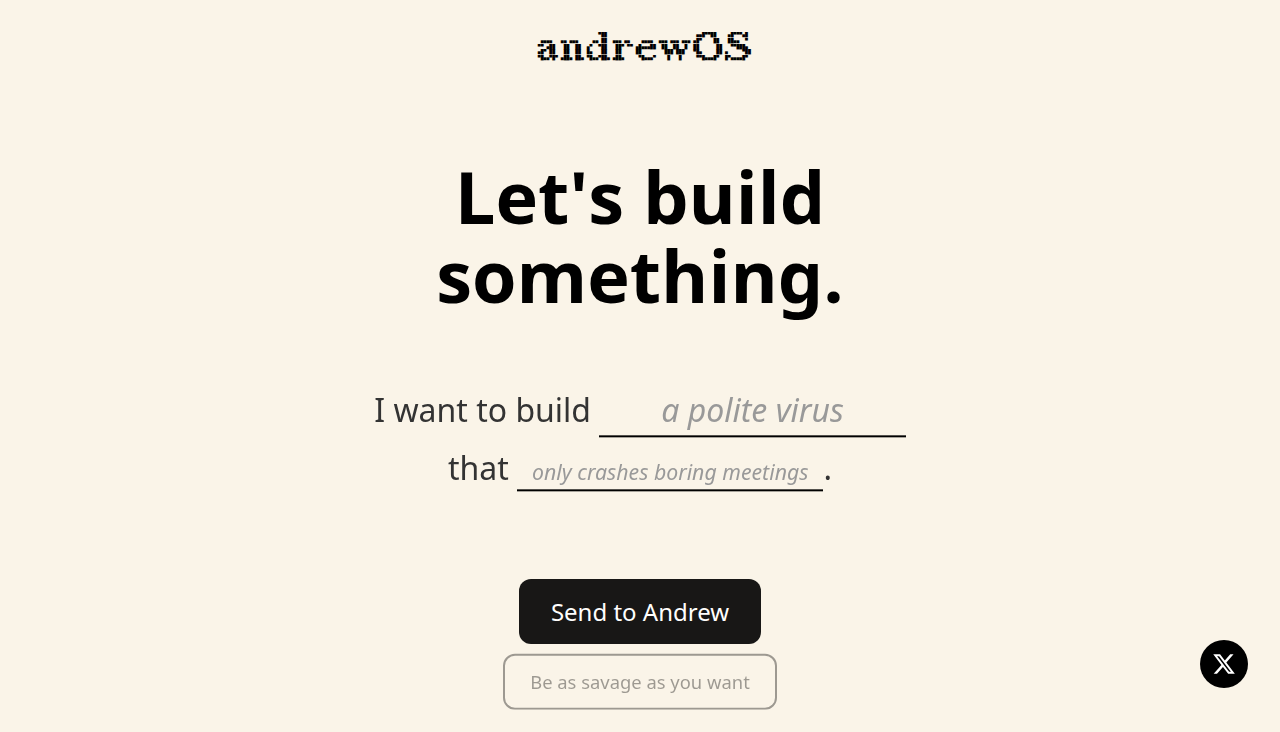
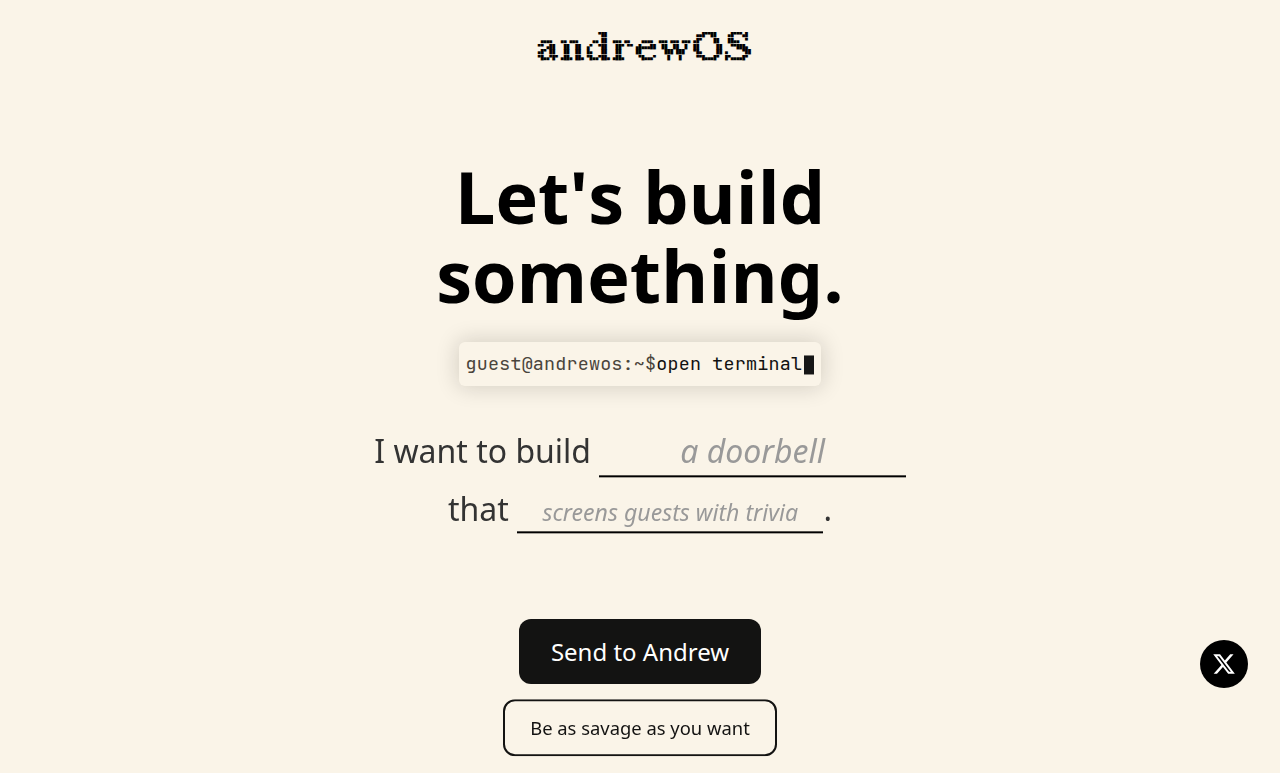
Add a visible shell prompt into the terminal (#2)
* Add a homepage shell prompt that opens the terminal.

The line fades in after the hero typewriter and uses the same document swap as the ASCII logo, which stays as an unlabeled easter egg.

* Update homepage screenshots for the shell prompt.

---------

diff --git a/index.html b/index.html
@@ -5,6 +5,7 @@
     <meta name="viewport" content="width=device-width, initial-scale=1.0, maximum-scale=1.0, user-scalable=no">
     <link rel="icon" type="image/png" href="/favicon.png" />
     <script src="/js/voxbot-feedback.js"></script>
+    <script src="/js/open-terminal.js"></script>
     <script>
       // VoxBot egg: /?feedback=1 (optional source=/from=) opens the separate feedback page.
       if (typeof isFeedbackDeepLink === 'function' && isFeedbackDeepLink(window.location)) {
@@ -57,6 +58,78 @@
       .header span.show {
         opacity: 1;
         transform: translateY(0);
+      }
+      .shell-entry {
+        display: inline-flex;
+        align-items: center;
+        justify-content: center;
+        margin: 0.15rem 0 2.4rem;
+        padding: 0.7rem 0.4rem;
+        min-height: 44px;
+        box-sizing: border-box;
+        font-family: ui-monospace, "SFMono-Regular", Menlo, Consolas, monospace;
+        font-size: clamp(0.95rem, 3.5vw, 1.15rem);
+        line-height: 1;
+        letter-spacing: 0.01em;
+        color: #1a1a1a;
+        text-decoration: none;
+        white-space: nowrap;
+        border-radius: 6px;
+        opacity: 0;
+        transform: translateY(-8px);
+        pointer-events: none;
+        transition: opacity 0.55s ease, transform 0.7s ease, background-color 0.2s ease;
+      }
+      .shell-entry.fade-in {
+        pointer-events: auto;
+        animation: shell-glow 1.7s ease 0.2s 1;
+      }
+      .shell-prompt {
+        color: #4a453c;
+      }
+      .shell-cmd {
+        color: #111;
+      }
+      .shell-cursor {
+        display: inline-block;
+        width: 0.55em;
+        height: 1.05em;
+        margin-left: 0.12em;
+        background: #161616;
+        transform: translateY(0.08em);
+        animation: shell-blink 1.06s steps(1, end) infinite;
+      }
+      .shell-entry:hover {
+        background: rgba(0, 0, 0, 0.04);
+      }
+      .shell-entry:hover .shell-cmd,
+      .shell-entry:focus-visible .shell-cmd {
+        box-shadow: inset 0 -1px 0 #111;
+      }
+      .shell-entry:focus {
+        outline: none;
+      }
+      .shell-entry:focus-visible {
+        outline: 1px solid #111;
+        outline-offset: 4px;
+      }
+      @keyframes shell-blink {
+        0%, 45% { opacity: 1; }
+        50%, 100% { opacity: 0; }
+      }
+      @keyframes shell-glow {
+        0% { box-shadow: 0 0 0 0 rgba(20, 16, 8, 0); }
+        40% { box-shadow: 0 0 22px 2px rgba(20, 16, 8, 0.16); }
+        100% { box-shadow: 0 0 0 0 rgba(20, 16, 8, 0); }
+      }
+      @media (prefers-reduced-motion: reduce) {
+        .shell-cursor {
+          animation: none;
+          opacity: 1;
+        }
+        .shell-entry.fade-in {
+          animation: none;
+        }
       }
       .subtitle {
         font-size: 2rem;
@@ -211,8 +284,13 @@
 
         .header {
           font-size: 3rem;
-          margin-bottom: 3rem;
+          margin-bottom: 1.25rem;
           line-height: 1.1;
+        }
+
+        .shell-entry {
+          margin-bottom: 1.75rem;
+          max-width: calc(100vw - 2rem);
         }
         
         .madlib {
@@ -343,39 +421,13 @@
     </style>
   </head>
   <body>
-    <pre class="ascii-art" onclick="(async () => {
-      window.history.pushState({}, '', '/terminal');
-      const response = await fetch('/terminal.html');
-      const html = await response.text();
-      document.documentElement.innerHTML = html;
-      // Load jQuery first
-      await new Promise((resolve) => {
-        const script = document.createElement('script');
-        script.src = 'https://code.jquery.com/jquery-3.3.1.min.js';
-        script.onload = resolve;
-        document.head.appendChild(script);
-      });
-      // Then load jQuery Terminal
-      await new Promise((resolve) => {
-        const script = document.createElement('script');
-        script.src = 'https://unpkg.com/jquery.terminal/js/jquery.terminal.min.js';
-        script.onload = resolve;
-        document.head.appendChild(script);
-      });
-      // Now execute page scripts
-      const scripts = document.getElementsByTagName('script');
-      for (let script of scripts) {
-        if (!script.src) { // Only eval inline scripts
-          eval(script.innerHTML);
-        }
-      }
-    })()">                       ▀██                               ▄▄█▀▀██    ▄█▀▀▀▄█
+    <pre class="ascii-art" onclick="openAndrewTerminal(event)">                       ▀██                               ▄▄█▀▀██    ▄█▀▀▀▄█
    ▄▄▄▄   ▄▄ ▄▄▄     ▄▄ ██  ▄▄▄ ▄▄    ▄▄▄▄  ▄▄▄ ▄▄▄ ▄▄▄ ▄█▀    ██   ██▄▄  ▀
   ▀▀ ▄██   ██  ██  ▄▀  ▀██   ██▀ ▀▀ ▄█▄▄▄██  ██  ██  █  ██      ██   ▀▀███▄
    ▄█▀ ██   ██  ██  █▄   ██   ██     ██        ███ ███   ▀█▄     ██ ▄     ▀██
   ▀█▄▄▀█▀ ▄██▄ ██▄ ▀█▄▄▀██▄ ▄██▄     ▀█▄▄▄▀    █   █     ▀▀█▄▄▄█▀  █▀▄▄▄▄█▀</pre>
     <h1 class="header">Let's build<br>Something.</h1>
-    <br><br>
+    <a class="shell-entry" href="/terminal.html" onclick="openAndrewTerminal(event)"><span class="shell-prompt">guest@andrewos:~$</span> <span class="shell-cmd">open terminal</span><span class="shell-cursor" aria-hidden="true"></span></a>
     <div class="madlib">
       I want to build <input type="text" id="what"><br> that
       <input type="text" id="does">.
@@ -398,6 +450,8 @@
         // Initial animation sequence
         const header = document.querySelector('.header');
         typeHeaderText(header, "Let's build<br>something.", () => {
+          const shell = document.querySelector('.shell-entry');
+          if (shell) shell.classList.add('fade-in');
           setTimeout(() => {
             document.querySelector('.madlib').classList.add('fade-in');
             setTimeout(() => {

diff --git a/tests/ui/home.spec.js b/tests/ui/home.spec.js
@@ -53,6 +53,7 @@ test.describe('landing page', () => {
     await expect(page.locator('.header')).toContainText(/something/i);
     await expect(page.locator('.madlib')).toHaveClass(/fade-in/, { timeout: 10_000 });
     await expect(page.locator('.initial-button')).toHaveClass(/fade-in/);
+    await expect(page.locator('a.shell-entry')).toHaveClass(/fade-in/);
 
     const anchors = page.locator('a[href]');
     const count = await anchors.count();
@@ -190,6 +191,52 @@ test.describe('landing page', () => {
       path: join(SCREENSHOT_DIR, `madlib-last-${testInfo.project.name}.png`),
       fullPage: true,
     });
+  });
+
+  test('shell prompt is the visible door into the terminal', async ({ page }, testInfo) => {
+    test.setTimeout(60_000);
+    await page.goto('/');
+
+    const entry = page.locator('a.shell-entry');
+    await expect(entry).toHaveClass(/fade-in/, { timeout: 15_000 });
+    await expect(entry).toBeVisible();
+    await expect(entry).toContainText('guest@andrewos:~$');
+    await expect(entry).toContainText('open terminal');
+    await expect(entry).toHaveAttribute('href', '/terminal.html');
+    await expect(entry.locator('.shell-cursor')).toBeAttached();
+
+    const ascii = page.locator('.ascii-art');
+    await expect(ascii).toHaveAttribute('onclick', /openAndrewTerminal/);
+
+    await entry.focus();
+    await page.keyboard.press('Enter');
+    await expect(page).toHaveURL(/\/terminal$/);
+    await expect(page.locator('.terminal')).toBeVisible({ timeout: 20_000 });
+    await expect(page.locator('.terminal-output')).toContainText('Build 302', { timeout: 20_000 });
+
+    mkdirSync(SCREENSHOT_DIR, { recursive: true });
+    await page.screenshot({
+      path: join(SCREENSHOT_DIR, `terminal-entry-keyboard-${testInfo.project.name}.png`),
+      fullPage: true,
+    });
+  });
+
+  test('shell prompt click uses the same terminal swap', async ({ page }, testInfo) => {
+    test.setTimeout(60_000);
+    await page.goto('/');
+    const entry = page.locator('a.shell-entry');
+    await expect(entry).toHaveClass(/fade-in/, { timeout: 15_000 });
+
+    mkdirSync(SCREENSHOT_DIR, { recursive: true });
+    await page.screenshot({
+      path: join(SCREENSHOT_DIR, `terminal-entry-home-${testInfo.project.name}.png`),
+      fullPage: true,
+    });
+
+    await entry.click();
+    await expect(page).toHaveURL(/\/terminal$/);
+    await expect(page.locator('.terminal')).toBeVisible({ timeout: 20_000 });
+    await expect(page.locator('.terminal-output')).toContainText('Build 302', { timeout: 20_000 });
   });
 
   test('madlib reloads never show empty placeholders', async ({ page }, testInfo) => {

diff --git a/js/open-terminal.js b/js/open-terminal.js
@@ -1,0 +1,38 @@
+/**
+ * Homepage → terminal swap. Same path the ASCII mark has always used:
+ * history shows /terminal, document is replaced with terminal.html.
+ * Modified clicks return so a real href can open in a new tab.
+ */
+async function openAndrewTerminal(event) {
+  if (event) {
+    const modified = event.metaKey || event.ctrlKey || event.shiftKey || event.altKey;
+    const aux = typeof event.button === 'number' && event.button !== 0;
+    if (modified || aux) return;
+    if (typeof event.preventDefault === 'function') event.preventDefault();
+  }
+
+  window.history.pushState({}, '', '/terminal');
+  const response = await fetch('/terminal.html');
+  const html = await response.text();
+  document.documentElement.innerHTML = html;
+
+  await new Promise((resolve) => {
+    const script = document.createElement('script');
+    script.src = 'https://code.jquery.com/jquery-3.3.1.min.js';
+    script.onload = resolve;
+    document.head.appendChild(script);
+  });
+  await new Promise((resolve) => {
+    const script = document.createElement('script');
+    script.src = 'https://unpkg.com/jquery.terminal/js/jquery.terminal.min.js';
+    script.onload = resolve;
+    document.head.appendChild(script);
+  });
+
+  const scripts = document.getElementsByTagName('script');
+  for (let script of scripts) {
+    if (!script.src) {
+      eval(script.innerHTML);
+    }
+  }
+}

diff --git a/terminal.html b/terminal.html
@@ -143,6 +143,8 @@
               (0, eval)(typeSrc);
               const madlibSrc = await fetch('/js/madlib-placeholders.js').then((r) => r.text());
               (0, eval)(madlibSrc);
+              const openSrc = await fetch('/js/open-terminal.js').then((r) => r.text());
+              (0, eval)(openSrc);
 
               // Wait for DOM to be ready
               if (document.readyState === 'loading') {
@@ -156,6 +158,8 @@
               // Initial animation sequence
               const header = document.querySelector('.header');
               typeHeaderText(header, "Let's build<br>something.", () => {
+                const shell = document.querySelector('.shell-entry');
+                if (shell) shell.classList.add('fade-in');
                 setTimeout(() => {
                   document.querySelector('.madlib').classList.add('fade-in');
                   setTimeout(() => {
